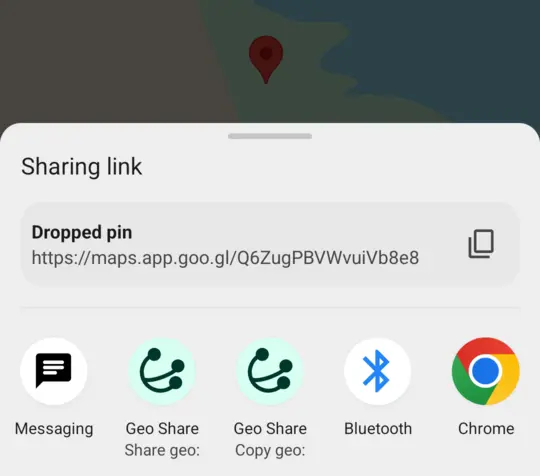
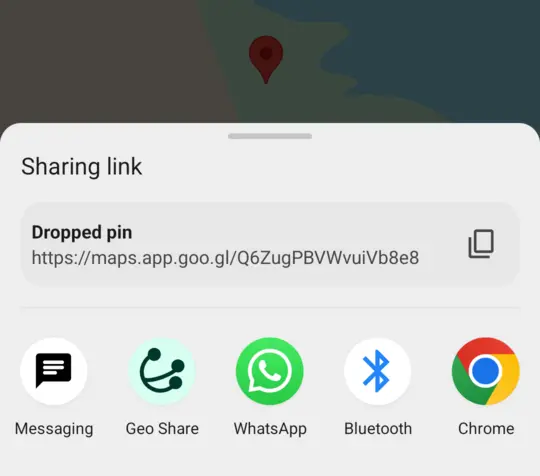
ScreenshotMapApp: update for custom share sheet

Changed region(s): [[0.4148, 0.7059, 0.563, 0.8529], [0.4148, 0.8824, 0.563, 0.9706], [0.237, 0.9118, 0.3852, 0.9706]]

diff --git a/app/src/main/java/page/ooooo/geoshare/ScreenshotMapApp.kt b/app/src/main/java/page/ooooo/geoshare/ScreenshotMapApp.kt
@@ -68,7 +68,7 @@ private fun ScreenshotMapApp(contentDescription: String, highlightedIconIndex: I
             for (icon in listOf(
                 Icon(stringResource(R.string.intro_how_to_share_google_maps_screenshot_app_messaging)),
                 Icon(appName),
-                Icon("TODO"), // TODO Make new screenshots.
+                Icon(stringResource(R.string.intro_how_to_share_google_maps_screenshot_app_whatsapp)),
                 Icon(stringResource(R.string.intro_how_to_share_google_maps_screenshot_app_bluetooth)),
                 Icon(stringResource(R.string.intro_how_to_share_google_maps_screenshot_app_chrome)),
             )) {
